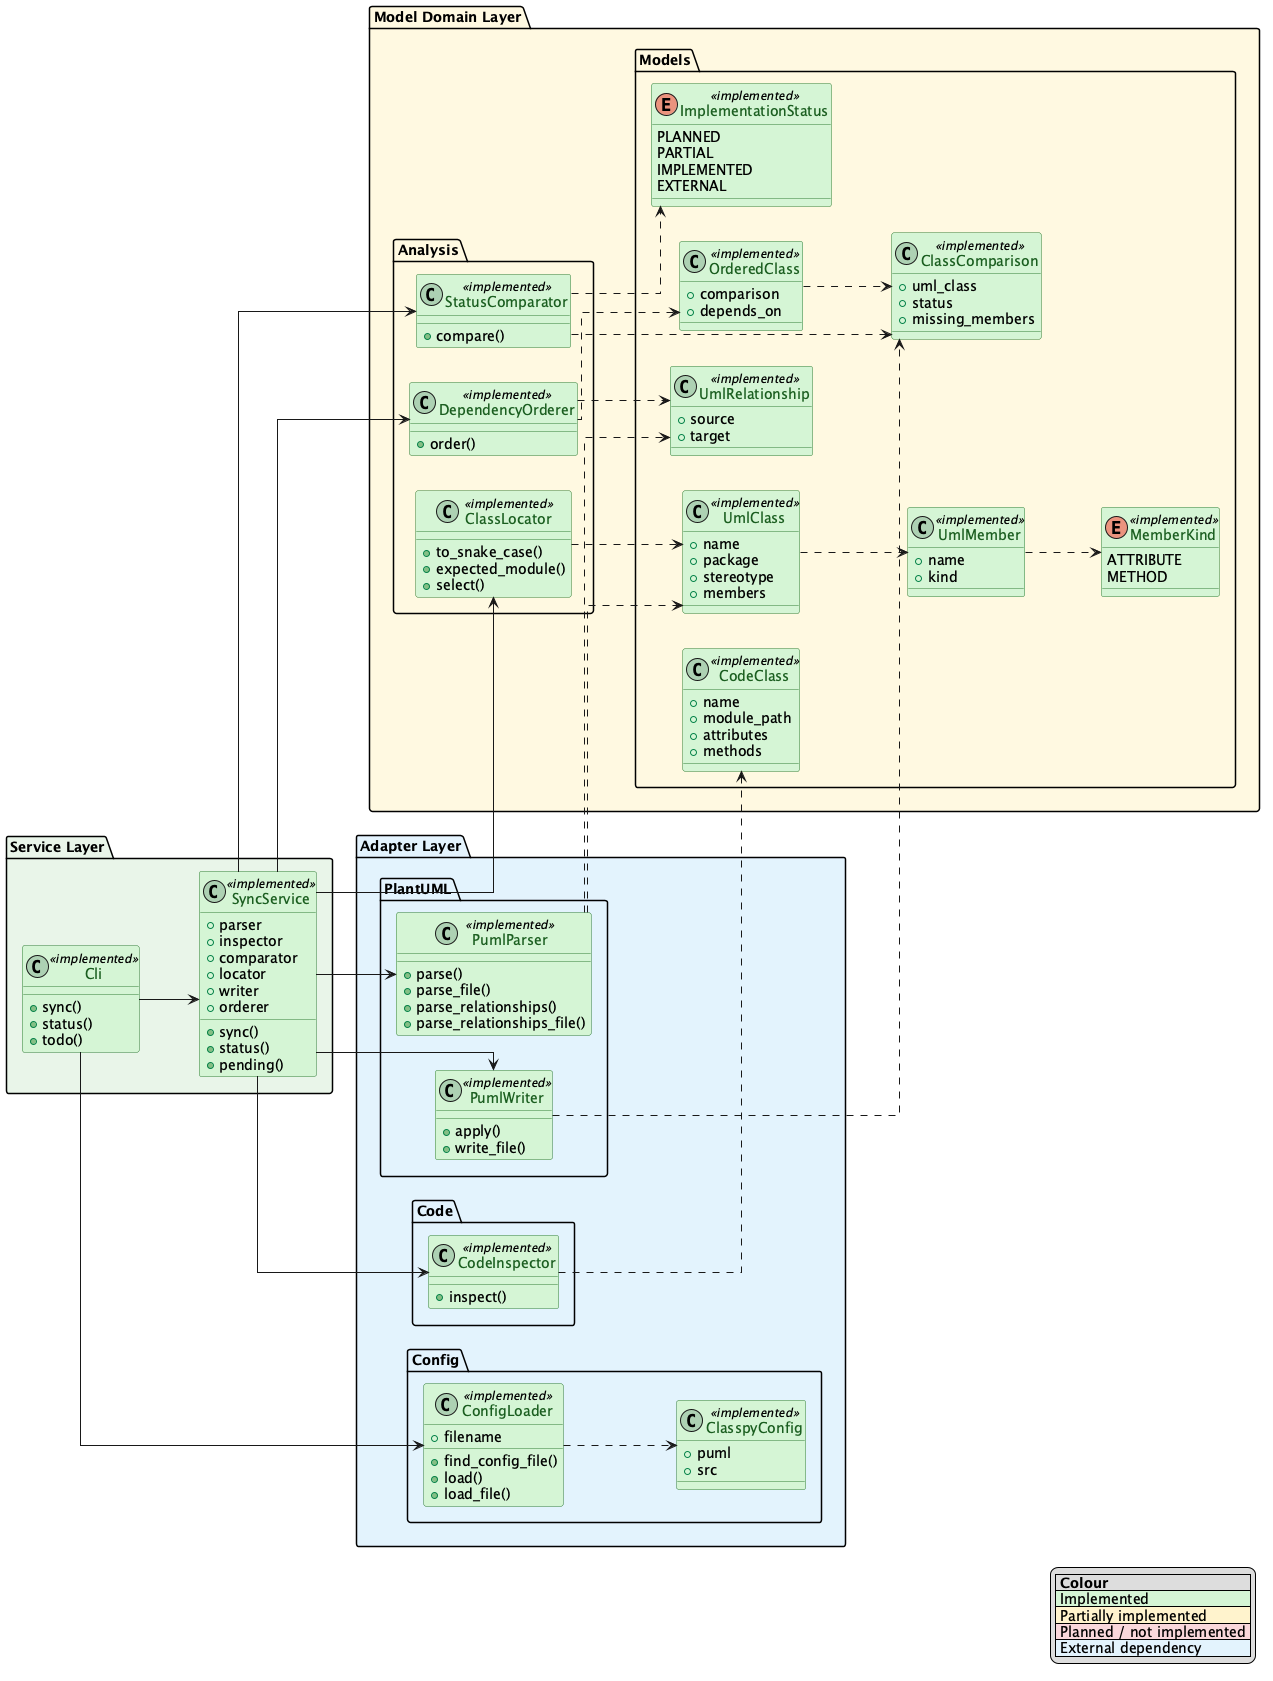
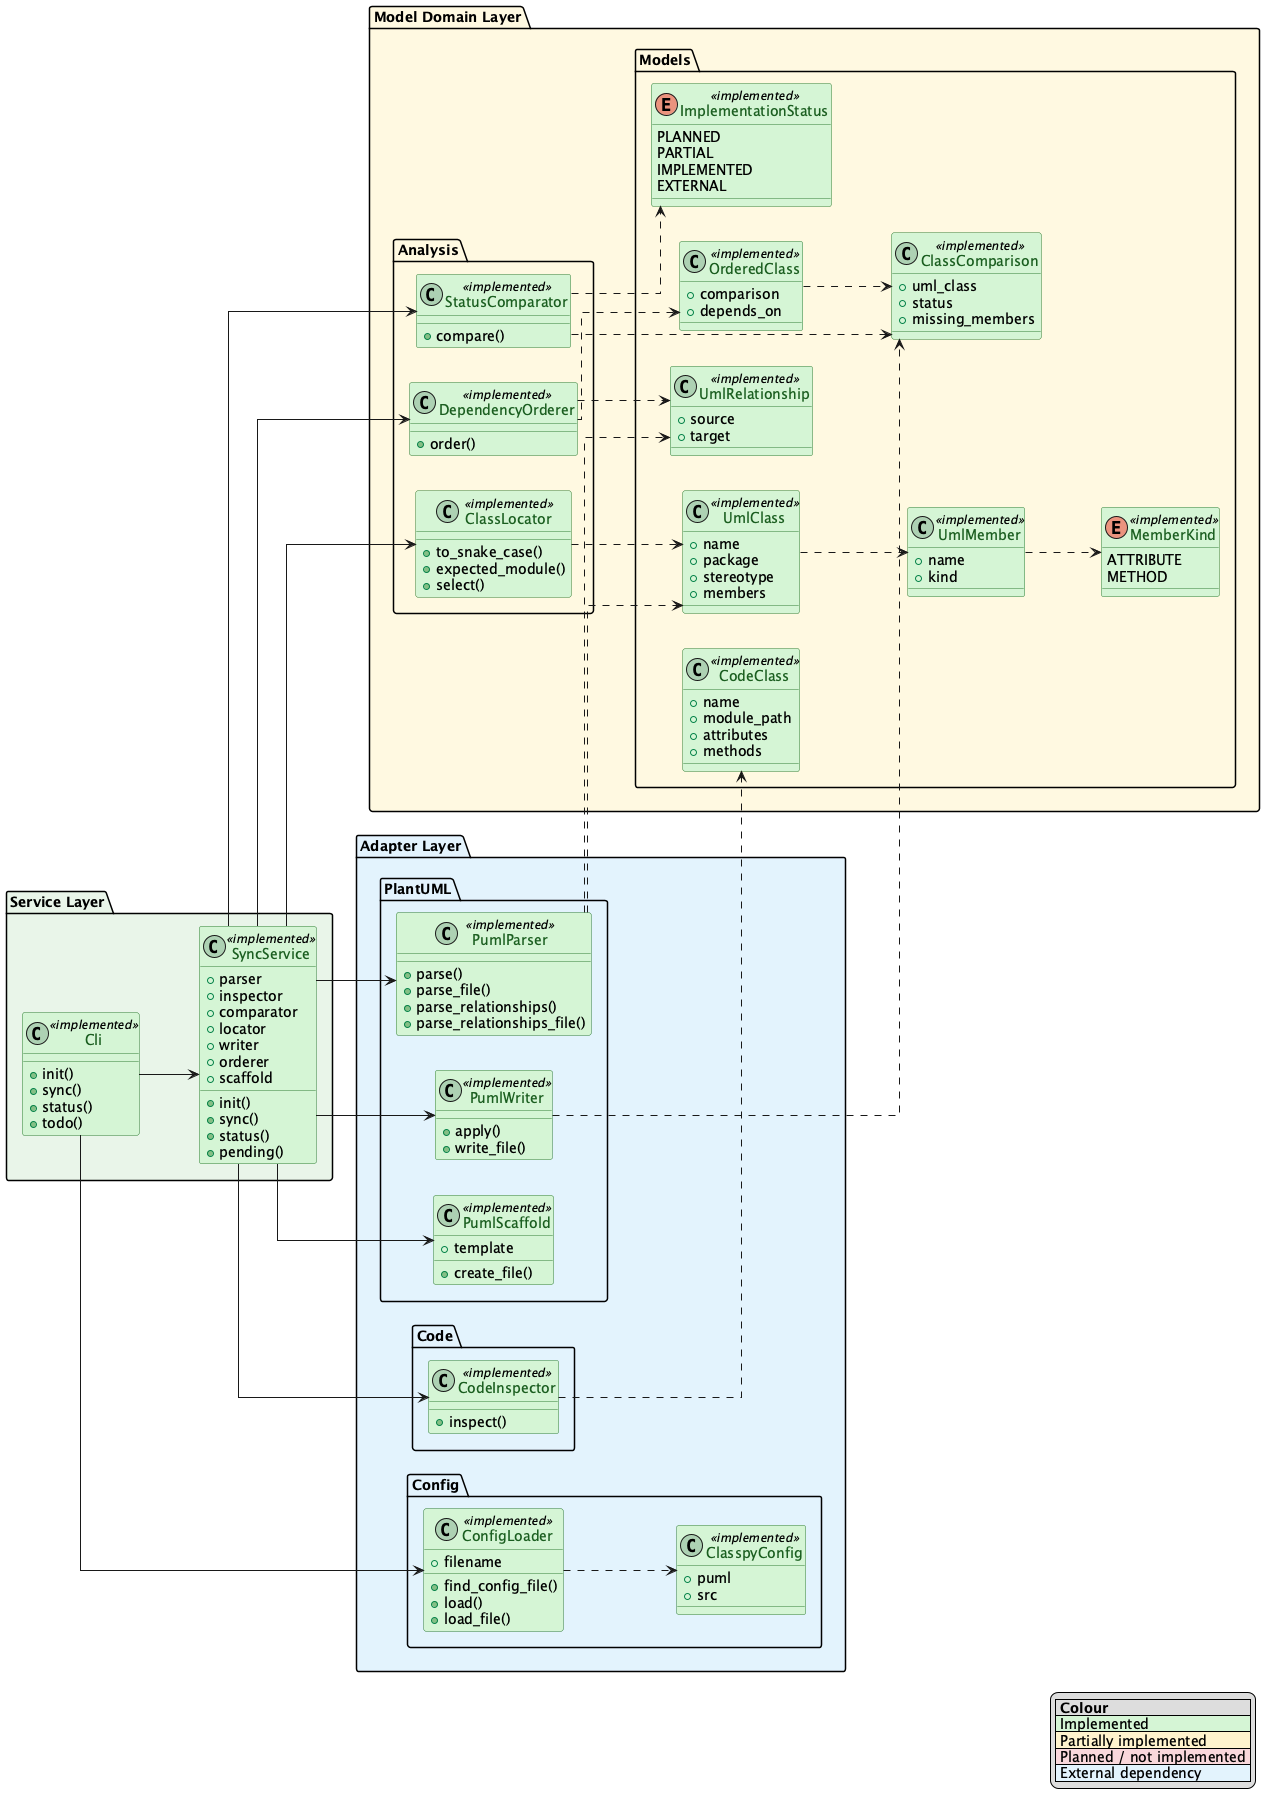
docs: udpated the documentation

diff --git a/README.md b/README.md
@@ -94,6 +94,17 @@ Any of these put a `classpy` executable on your PATH. Requires **Python 3.11–3
 
 ## Using it in another project
 
+### 0. Scaffold a diagram (optional)
+
+```bash
+classpy init
+```
+
+This creates `docs/class.puml` (making the `docs/` folder if needed) from an empty
+template: the three layer packages with their fill colours, the status legend and
+the stereotype tags, but no classes. If the file already exists it is left
+untouched. Use `--puml PATH` to write somewhere else.
+
 ### 1. Describe your architecture in a `.puml` file
 
 Create `docs/class.puml`. Declare each class you intend to build, listing the
@@ -196,6 +207,7 @@ classpy sync --check --puml docs/class.puml --src src
 
 | Command                 | What it does                                                        |
 | ----------------------- | ------------------------------------------------------------------- |
+| `classpy init`          | Scaffold an empty `docs/class.puml` (layers + legend, no classes).  |
 | `classpy status`        | Report each class's status. Never writes.                           |
 | `classpy sync`          | Repaint the `.puml` stereotypes to match the code.                  |
 | `classpy sync --check`  | Report + exit non-zero if stale (writes nothing). For CI.           |